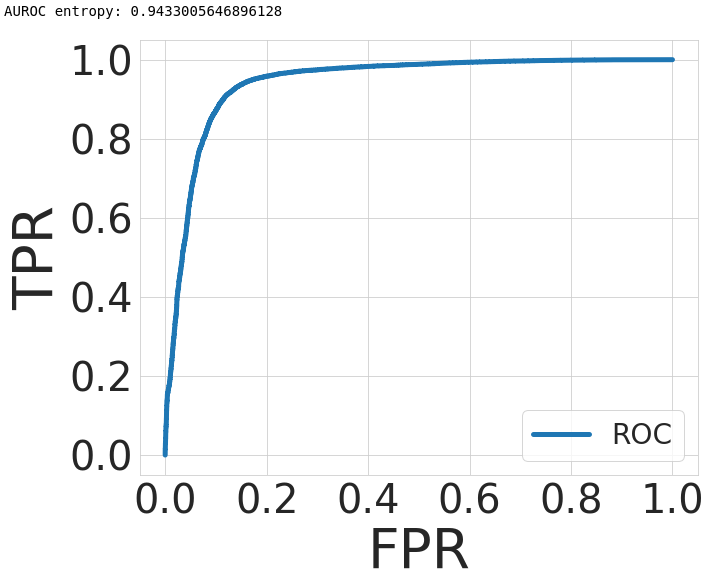
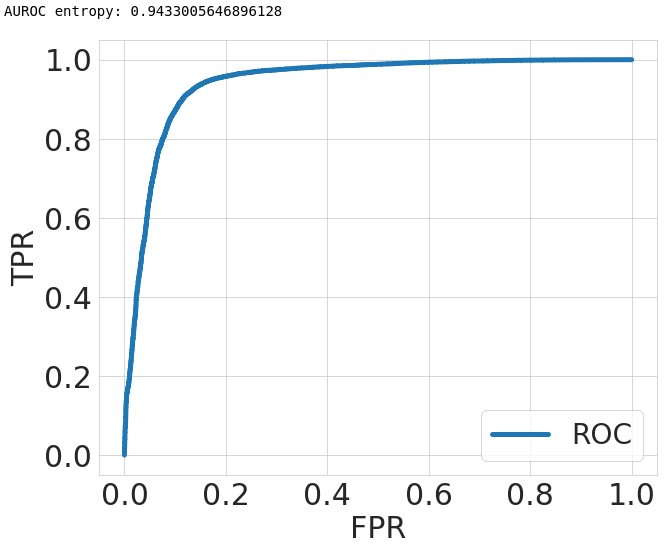
Fixed README.md
* Added environment.yml and updated README

* Adding instructions for training and added link for datasets

* Added training instructions

* More changes to README.md

* More changes to README.md

* Added ROC plot to README.md

* Added questions section in README.md

* Changed size of plot

* Changed size of plot

* Changed size of plot

* Changed size of plot

* Changed roc.png image

* Center align plot

* Modified README.md

* Modified README.md

* Updating README: Added citation and arxiv link

* Added environment.yml and updated README

* Adding instructions for training and added link for datasets

* Added training instructions

* More changes to README.md

* More changes to README.md

* More changes to README.md

* More changes to README.md

* Added ROC plot to README.md

* Added questions section in README.md

* Added training instructions

* More changes to README.md

* More changes to README.md

* More changes to README.md

* Added ROC plot to README.md

* Removed Pretrained Models section twice from README.md

diff --git a/README.md b/README.md
@@ -17,10 +17,13 @@ If the code or the paper has been useful in your research, please add a citation
 
 The code is based on PyTorch and requires a few further dependencies, listed in [environment.yml](environment.yml). It should work with newer versions as well.
 
-
 ### Datasets
 
 Most datasets will be downloaded directly on running the code. However, [Tiny ImageNet](https://tiny-imagenet.herokuapp.com/) needs to be downloaded separately for the data loader to work.
+
+### Pretrained models
+
+The pretrained models for Focal Loss (Sample-Dependent gamma 5, 3) and Focal Loss (gamma 3) for all the datasets can be [downloaded from here](http://www.robots.ox.ac.uk/~viveka/focal_calibration/).
 
 ## Training a model
 
@@ -62,17 +65,13 @@ The jupyter notebook is simpler to use and quite self explanatory. The following
 
 ![ResNet50_Result](resnet50_results.png)
 
-### Pretrained models
-
-The pretrained models for Focal Loss (Sample-Dependent gamma 5, 3) and Focal Loss (gamma 3) for all the datasets can be [downloaded from here](http://www.robots.ox.ac.uk/~viveka/focal_calibration/).
-
-
 ## OOD Notebook
 
 To plot the ROC curve and compute the AUROC for a model trained on CIFAR-10 (in-distribution dataset) and tested on SVHN (out-of-distribution dataset), please use the [evaluate_single_model_ood.ipynb](Experiments/evaluate_single_model_ood.ipynb) notebook. The following is the ROC plot obtained from the ResNet-50 model which we trained on CIFAR-10 using the cross-entropy objective function.
 
-![ROC](roc.png)
-
+<center>
+<img src="roc.png" width="500" class="center">
+</center>
 
 ## Questions
 
